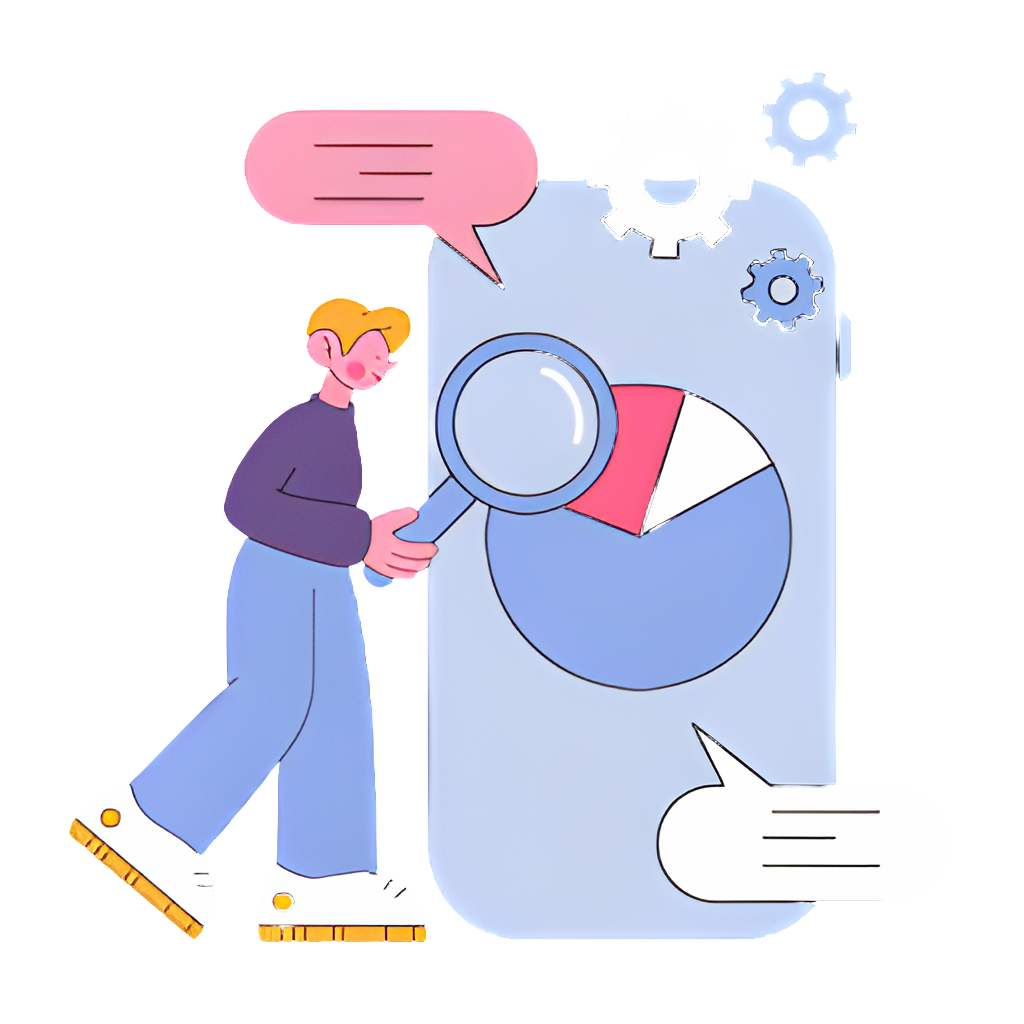
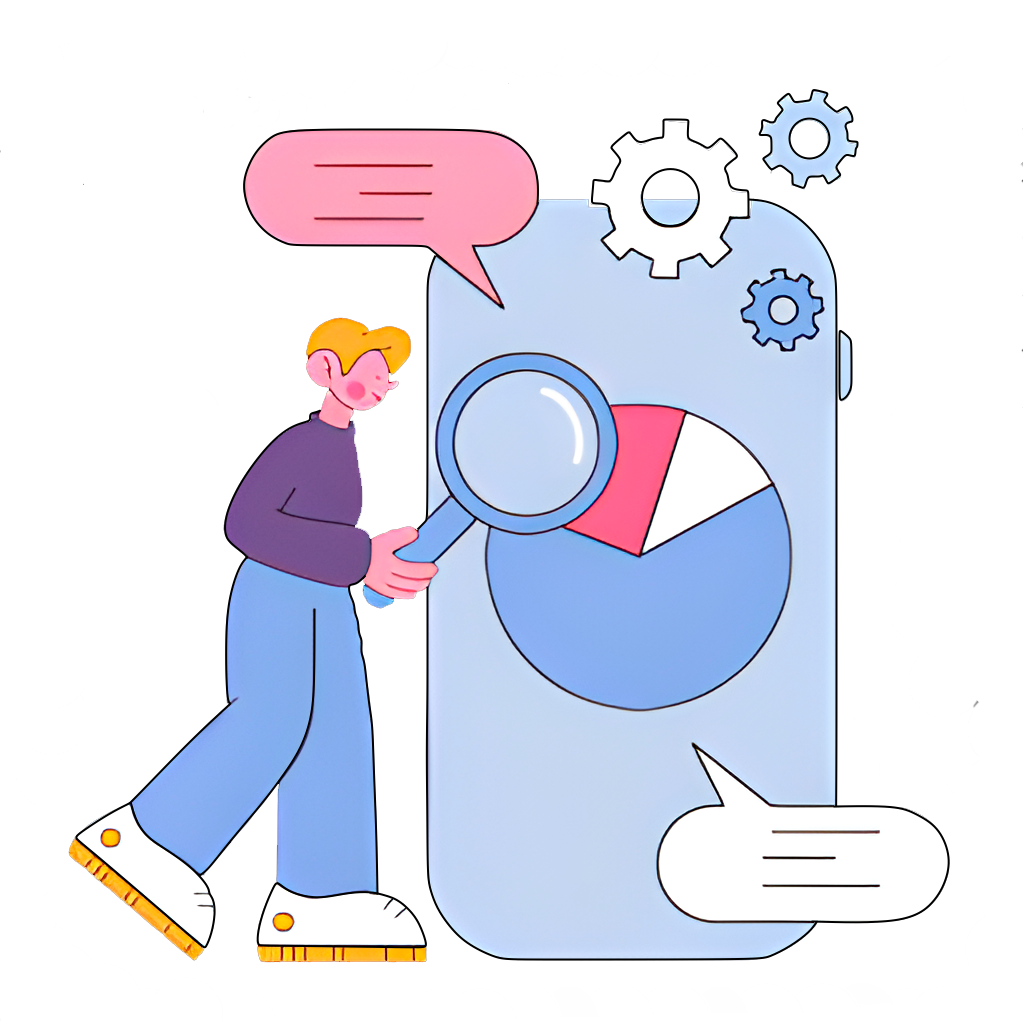
adding dashboard picture HD

diff --git a/client/src/components/dashboard/MainSection.jsx b/client/src/components/dashboard/MainSection.jsx
@@ -53,8 +53,8 @@ export const MainSection = () => {
           </div>
         </div>
 
-        <div>
-          <img className="w-10/12 object-cover mx-auto" src={dashboardImg} alt="Imagen principal" />
+        <div className="w-5/12">
+          <img className="mx-auto" src={dashboardImg} alt="Imagen principal" />
         </div>
       </div>
 
